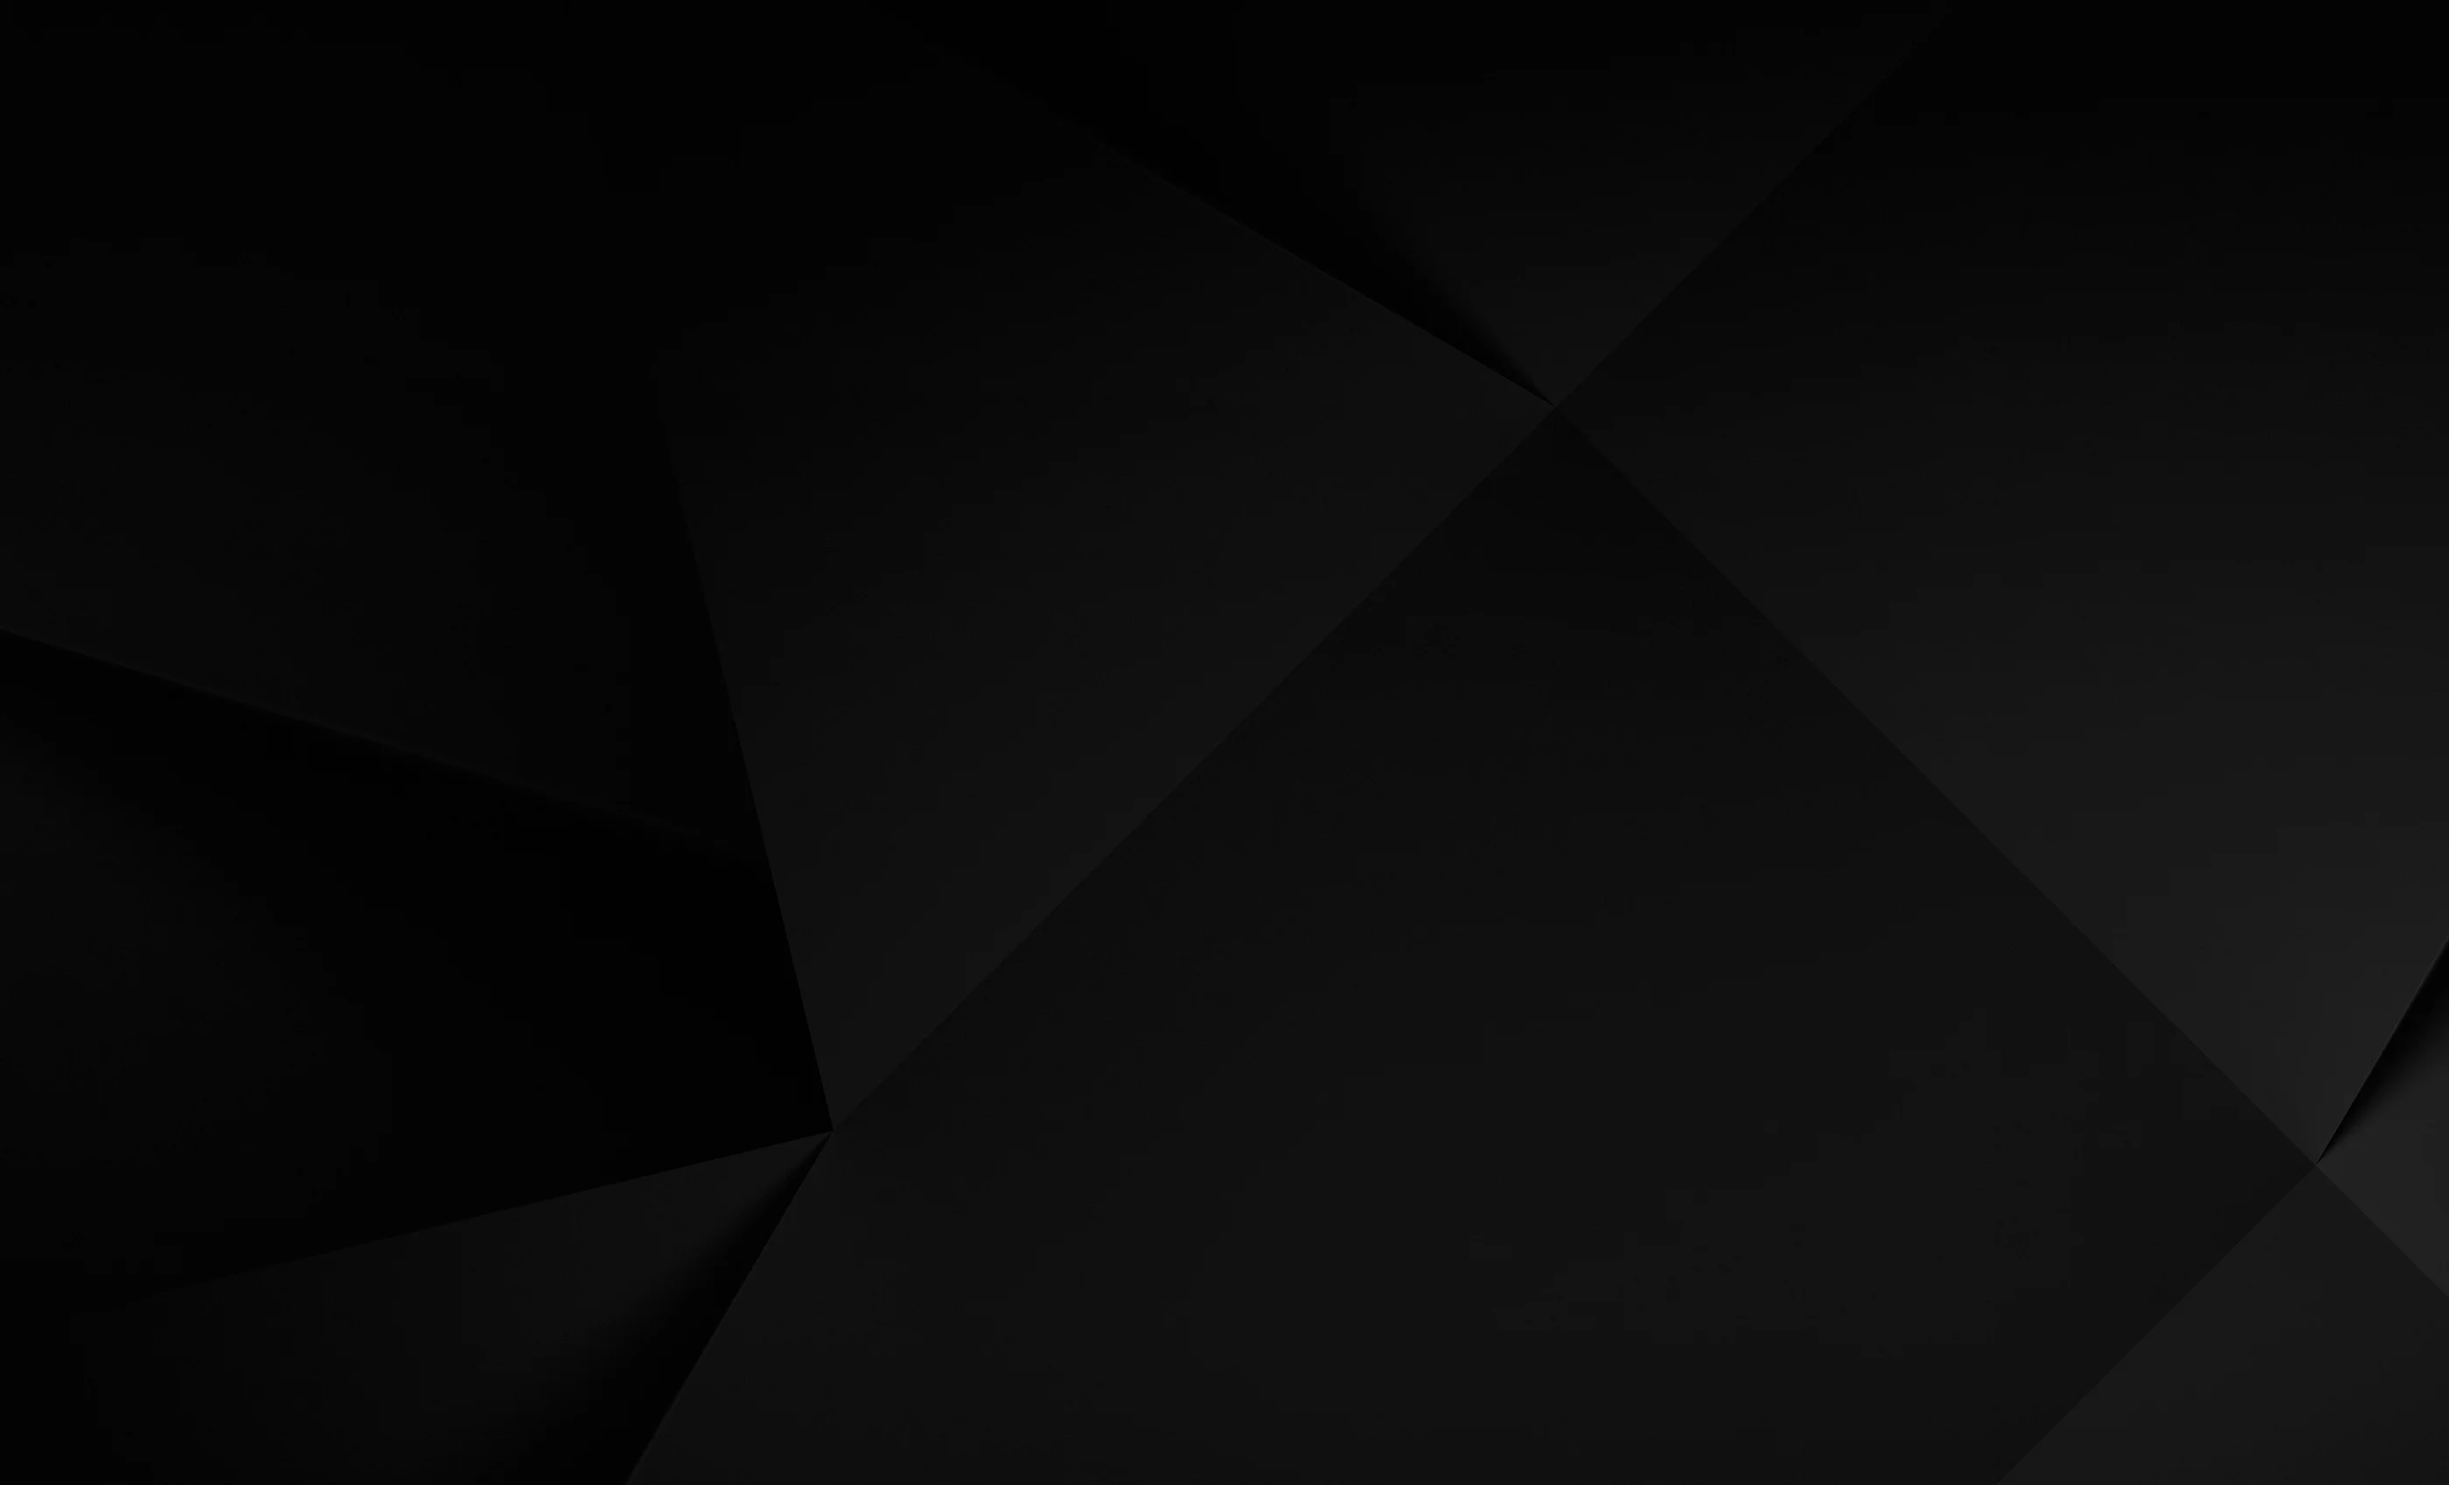
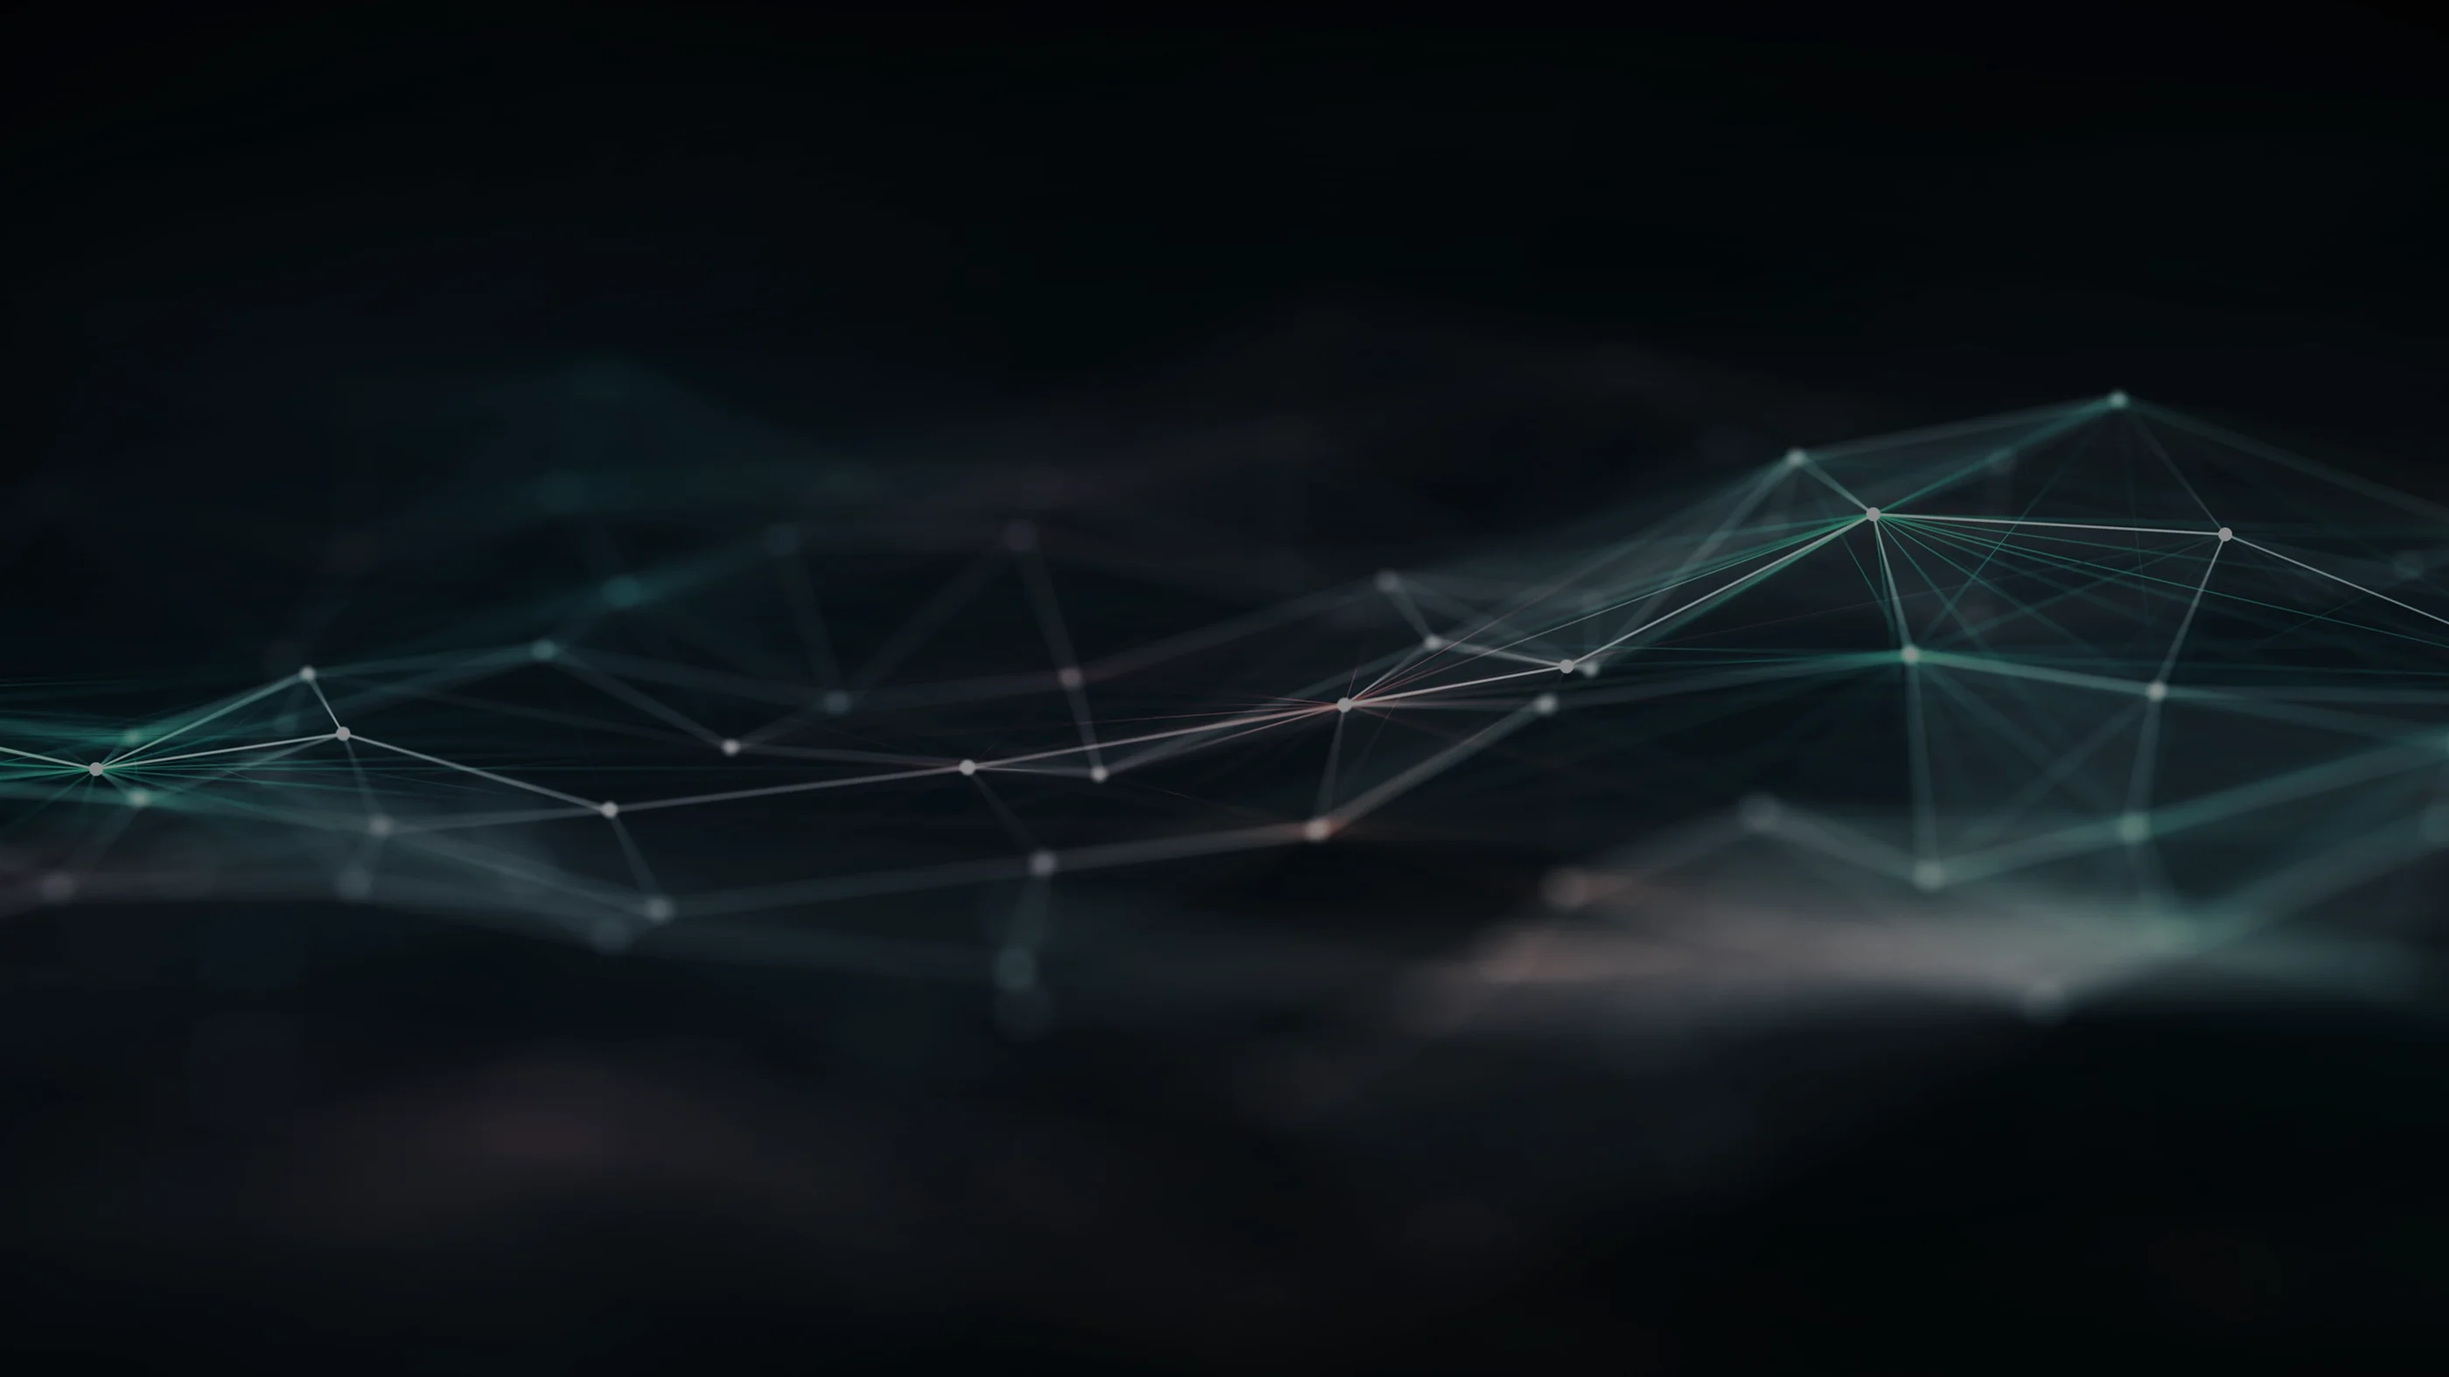
Ny bakgrund: nätverkslinjer i grönt mot svart
Claude-Session: https://claude.ai/code/session_01YEL7PBCsZ3Pru2oBr2v8E4

diff --git a/server/sajtvakt_server/static/style.css b/server/sajtvakt_server/static/style.css
@@ -375,9 +375,9 @@ details.use summary::-webkit-details-marker { display: none; }
 .cols .main-col > .col-head, .side-col section > .col-head, .side-col section > h2 { padding-bottom: 2px; }
 
 /* ---- bakgrundsbild + glas (backdrop-blur) ---- */
-html { background: #070707; }
+html { background: #07090a; }
 body { background: transparent; }
-body::before { content: ""; position: fixed; inset: 0; z-index: -1; background: #070707 url(bg.webp?v=4) center / cover no-repeat; pointer-events: none; }
+body::before { content: ""; position: fixed; inset: 0; z-index: -1; background: #07090a url(bg.webp?v=5) center / cover no-repeat; pointer-events: none; }
 .side { background: rgba(10, 12, 13, .45); border-right-color: rgba(255, 255, 255, .06); -webkit-backdrop-filter: blur(22px) saturate(1.2); backdrop-filter: blur(22px) saturate(1.2); }
 .side nav a.on { background: rgba(255, 255, 255, .06); }
 .group, .needs, .log, .card, .flash, .notice, .job {

diff --git a/server/sajtvakt_server/__init__.py b/server/sajtvakt_server/__init__.py
@@ -1,2 +1,2 @@
 """Sajtvakt – backup, uppdateringar och återställning för WordPress-sajter."""
-__version__ = "0.10.3"
+__version__ = "0.10.4"
